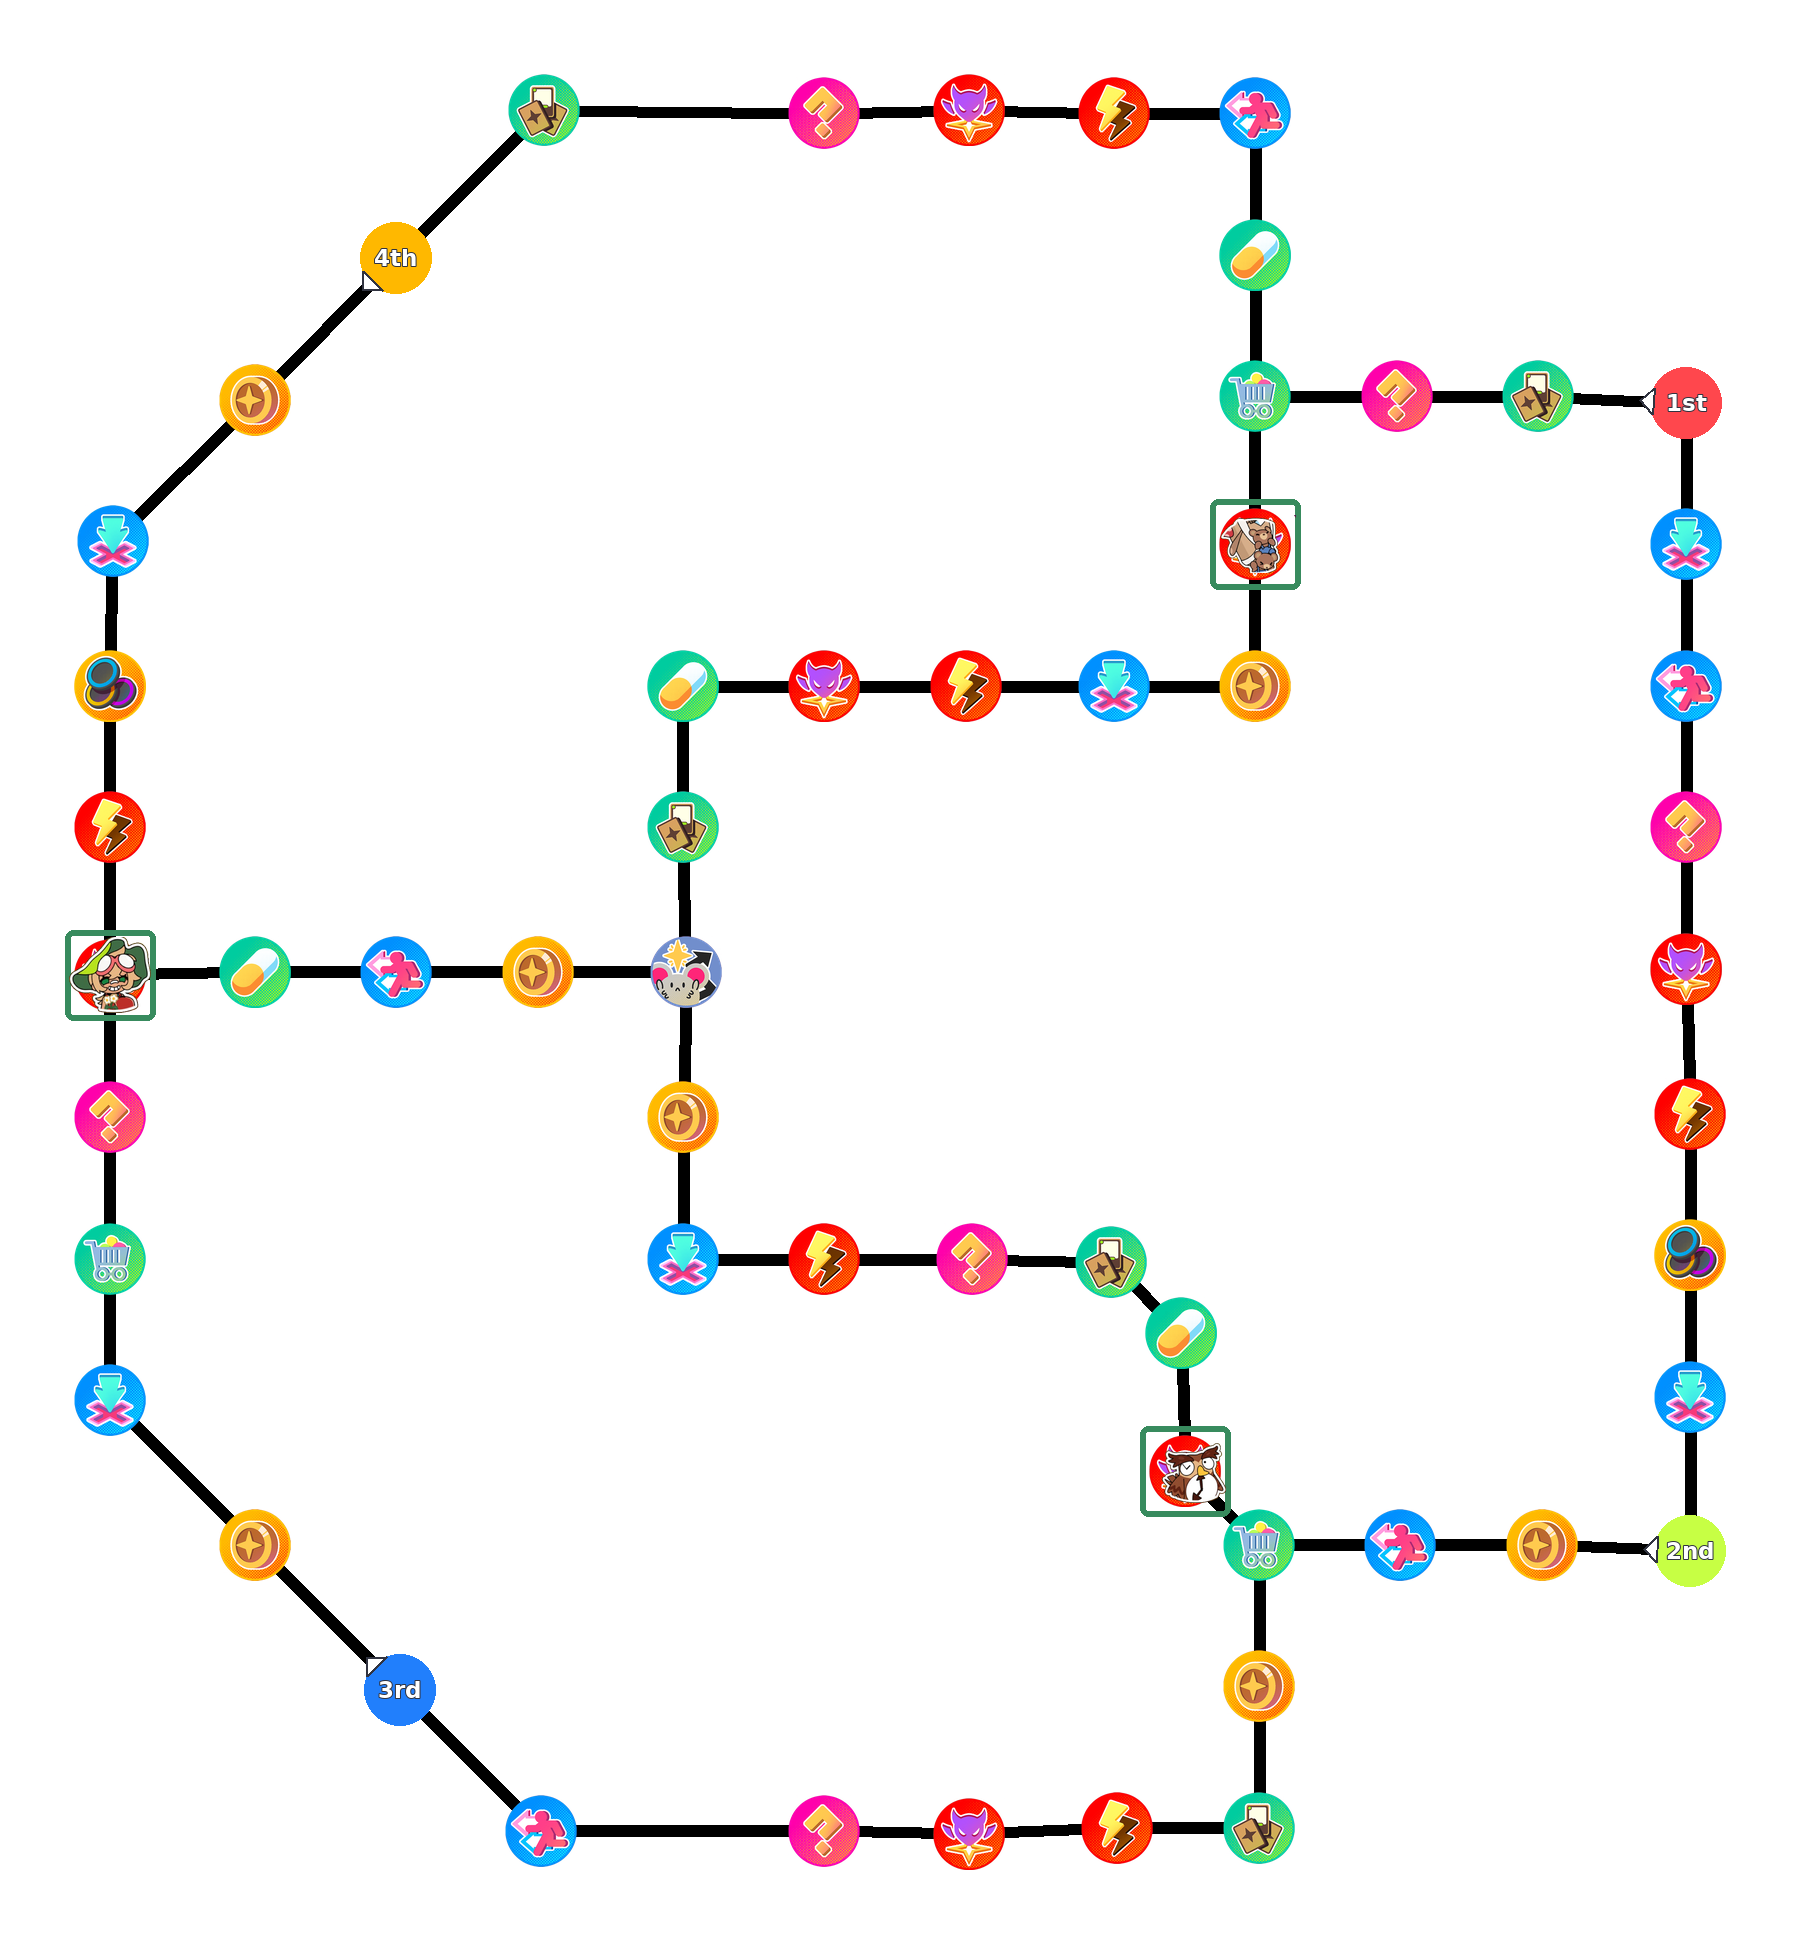
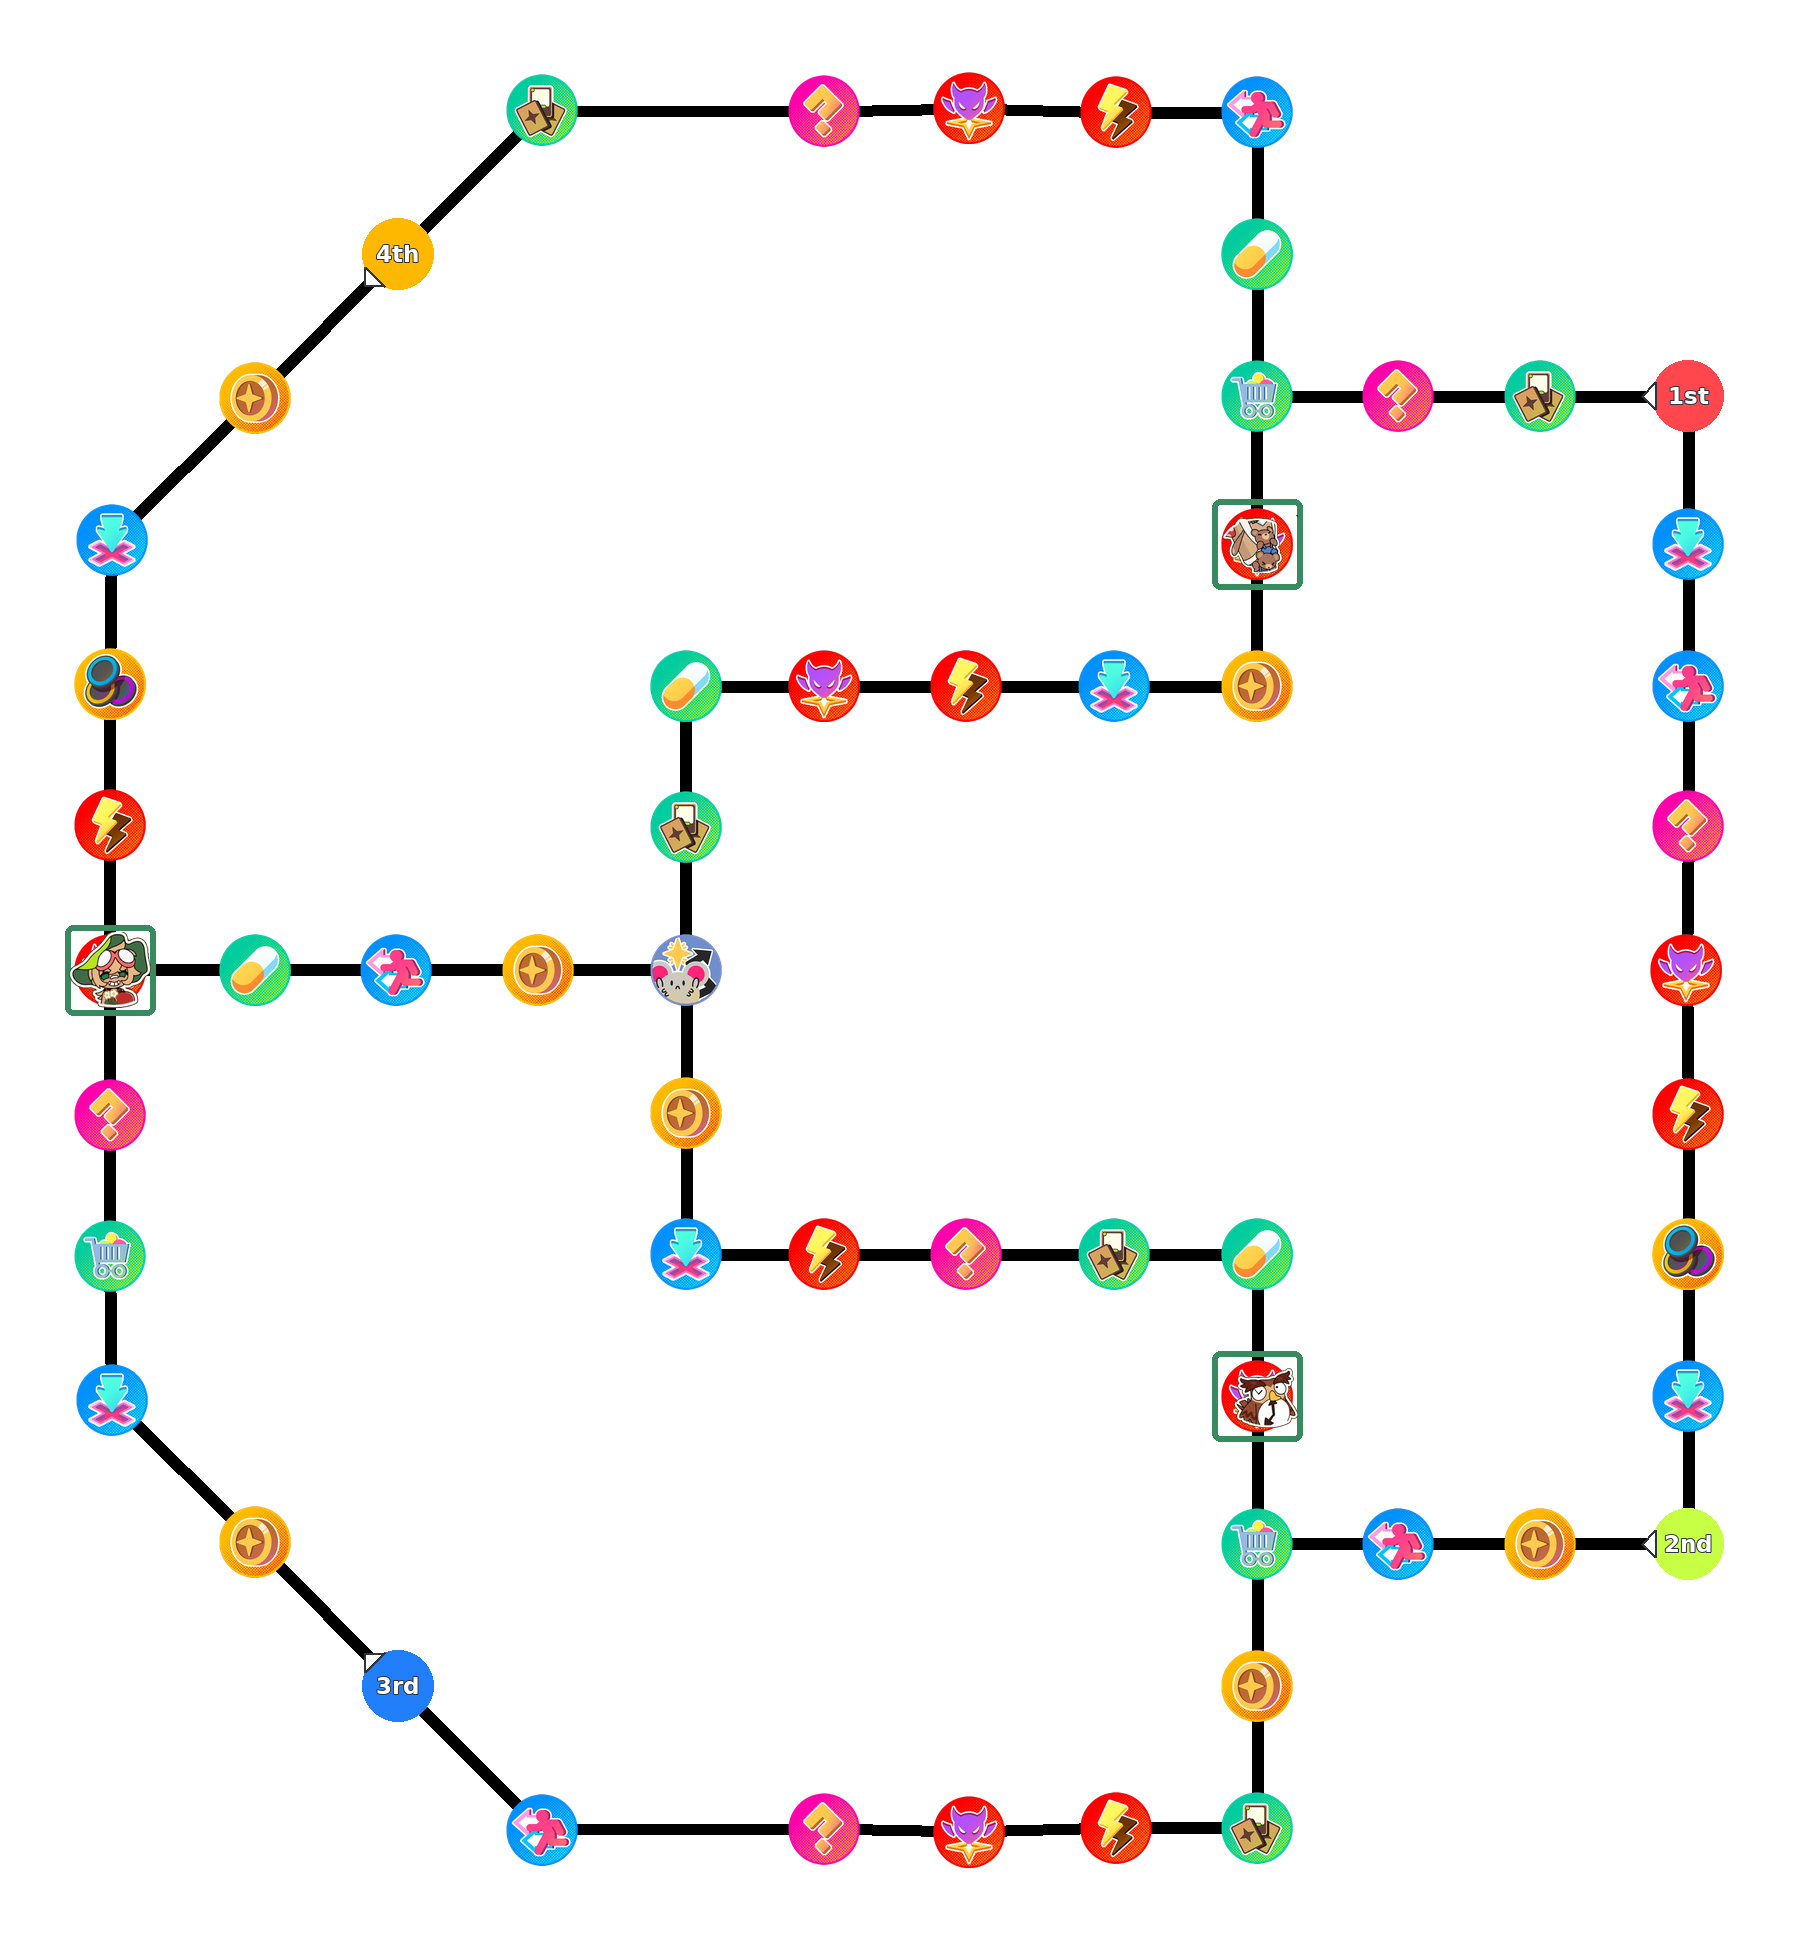
Align Autumn Forest diagram symmetrically and record successful checks

diff --git a/docs/map-event-output/autumn-forest/README.md b/docs/map-event-output/autumn-forest/README.md
@@ -5,7 +5,7 @@
 - MAP0105。新規モンスターはM0120キッズガオー（種族：天王寺雅央）、M0121採集クマちゃん、M0122おもちゃの恐竜、M0123目覚ましフクロウ。泥棒は既存M0005。
 - `csv/monster_stats.csv` に4種類×4難易度を追加。`csv/monster_skills.csv` は難易度別スキル文と元画像名を保存する新しいデータファイル。現行アプリでは説明画像を表示し、このスキルCSVを自動実行する仕組みはない。
 - `MonsterInfo/M012x_info_1..4.png` は普通・困難・悪夢・狂気の順。ボスは2スクロール位置を縦に結合。全文のうちゲーム画面で見える範囲を保存している。アイコンは右下のモンスター選択欄から切り出した暫定素材。
-- O18a/O29aは実在しないので削除。隣接するO18/O30を角へ移動した56マス図。時計回り45度で1800×1944pxとなり、反時計回りの場合の横長を避ける。マス素材は回転後の主な辺と角度を合わせて正立配置。I18–O24の接続と初期進行方向は引き続き暫定。
+- O18a/O29aは実在しないので削除。隣接するO18/O30を角へ移動した56マス図。時計回り45度で1800×1944pxとなり、反時計回りの場合の横長を避ける。描画座標は上下の線対称へ整形し、内側の曲がりも直角に統一。マス順序・接続は保持。マス素材は回転後の主な辺と角度を合わせて正立配置。I18–O24の接続と初期進行方向は引き続き暫定。
 - `topology.json` は位置・接続・通常の出現位置を保存する。`python3 scripts/render-autumn-map.py` で本図・確認用番号図・イベント図4枚を再生成できる。必要なPillowとDejaVuフォントは従来の生成環境と同じ。
 - 今回の明示指定により、従来の「緑枠のみ」から、このマップに限りモンスターアイコンを暫定配置。進捗7のO16にはクマと恐竜が重なるので横に並べ、同じ緑枠で示す。
 - 通常の進捗3/7/10は2動画の生成場面を比較して配置が一致した。進捗1の図は観測配置であり、2動画での全配置一致を独立確認したものではない。固定/ランダムの追加検証は引き続き必要。CSVの出現位置画像の有無を固定判定として利用しない。

diff --git a/docs/development-handoff.md b/docs/development-handoff.md
@@ -167,3 +167,6 @@ Last updated: 2026-10-12 (Japan)
 - しおり、ワープエンジン、電撃グローブの説明CSV・画像を更新。07の手動チャージ量をそれぞれ新仕様へ変更し、グローブ命中数×2の攻撃補正を追加。ルカの潜在解放文と手入力のターン限定攻撃補正を追加。手札・位置・範囲ダメージは自動追跡せず既存の手動操作を使用。
 - 07の同梱データ・説明生成JS・説明一覧419行を同期。08は停止・統合待ち、v1p3は保存版の方針を維持。共有CSVをHTTP取得する場合はそれらにもデータ変更が見えるが、専用実装・説明フォールバックは今回の対象外。
 - 手元のcheck:07（21script個別＋連結、説明167行）、説明一覧同期、マップ出力既存9テストが成功。新規HTTP/file://回帰テスト2件を追加。手元ブラウザの配布ZIP取得が破損応答で失敗したため、実ブラウザ検証はPRのCIで確認する。全キャラ総当たりは実行しない。
+
+- 実装head `f3f39f8` のPR #212で全6CI成功：07（38703453904）、通常回帰（38703453979）、08（38703453901）、横長Chromium/WebKit（38703453890）、モバイルAndroid/iPhone（38703454207）、マップ出力（38703454058）。追加HTTP/file://テスト2件も成功。全数チェックは意図どおりスキップ。
+- 続く図の整形では描画座標を上下の線対称へ揃え、内側の曲がりを直角へ統一。56マスの種類・順序・接続、アプリ・CSV・テストは変更なし。再生成PNGの全チェックサムを確認。最終headのCIはPR #212を参照。
